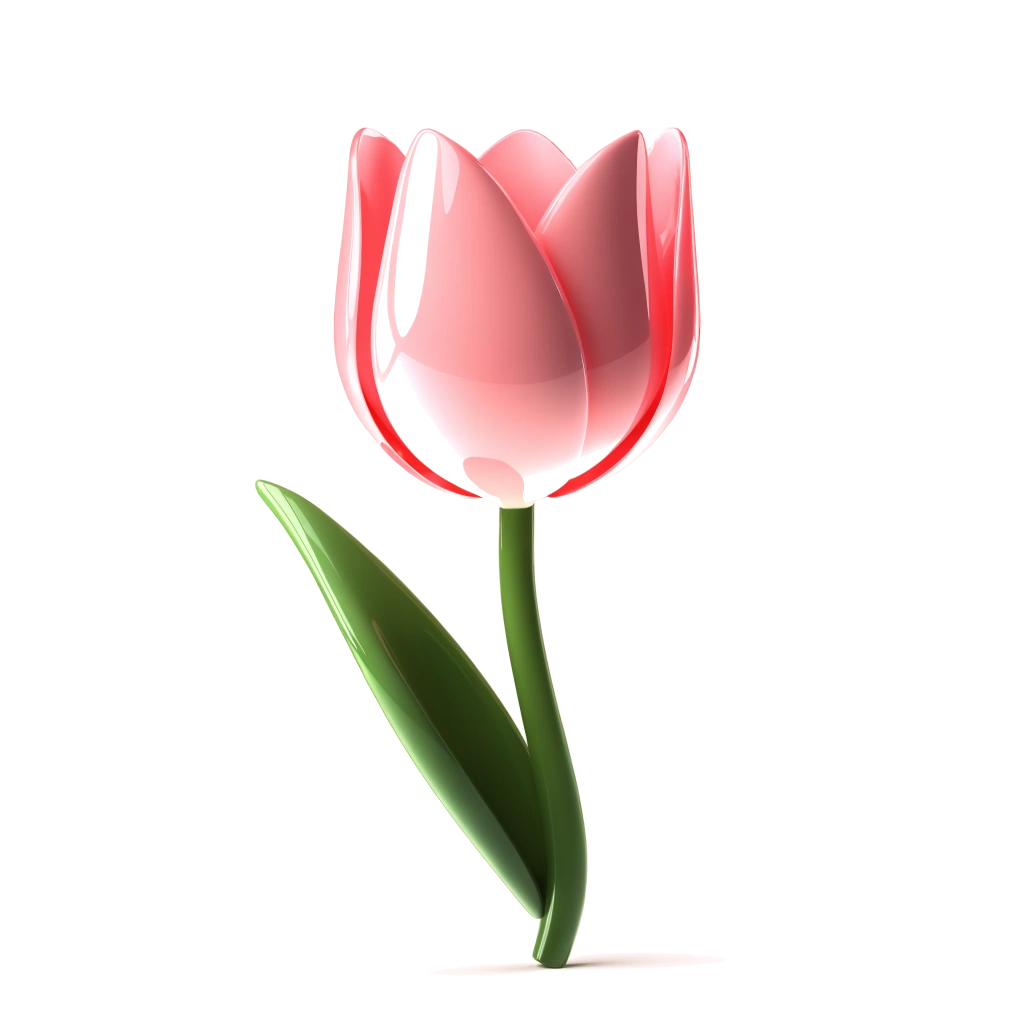
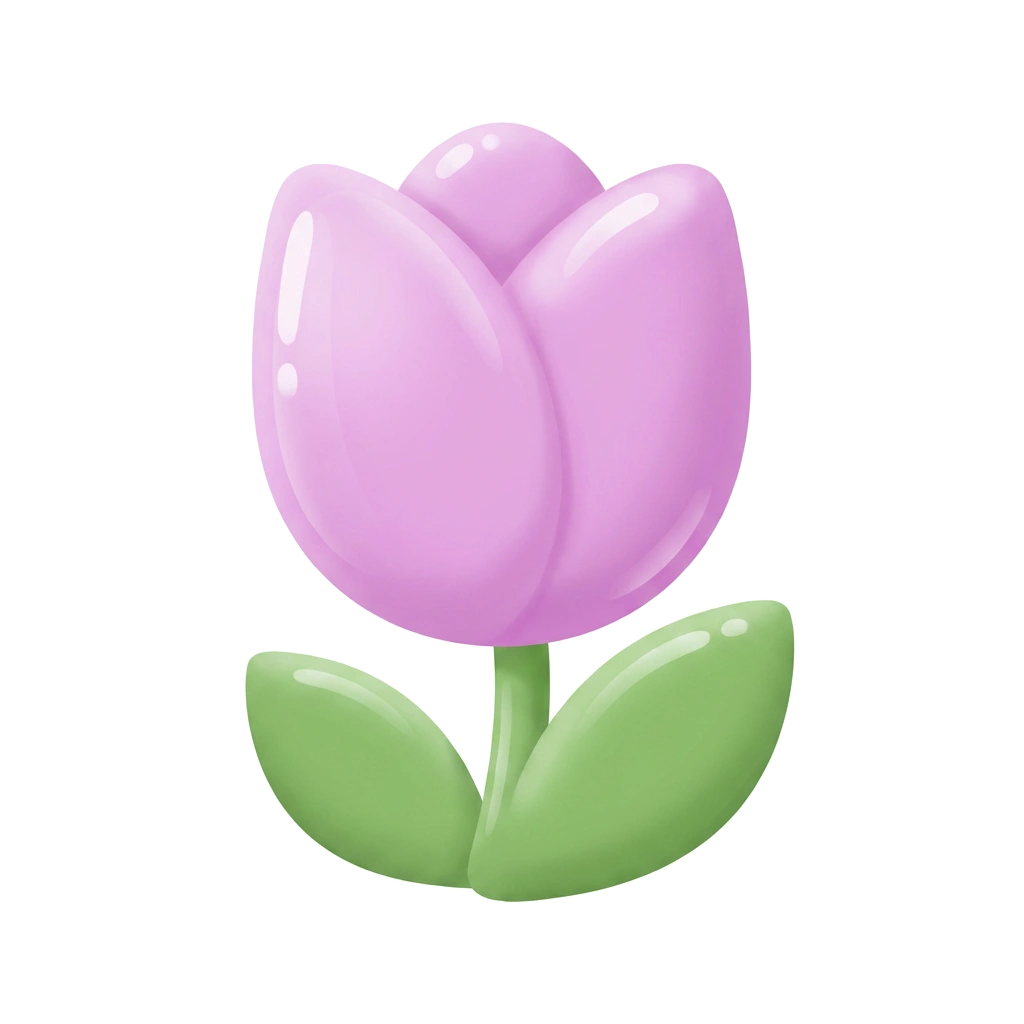
Os ícones da Saúde passam a seguir o coração de referência do dono
O coração é a imagem que ele mandou pelo Drive; chutes, contrações, nutrição
e saúde da mulher foram gerados com essa imagem como referência de estilo,
na mesma família: rosa-doce, brilho suave, formas simples, sem rosto.

Medido: 5.508 testes, tsc e lint limpos; o hub fotografado com as cinco artes
e console limpo.

Claude-Session: https://claude.ai/code/session_01BJM25tJAqQNE1gvk3FSNXP

diff --git a/CLAUDE.md b/CLAUDE.md
@@ -12593,3 +12593,30 @@ acima mais `scripts/bebes/do-drive.mjs`.
 
 **Bancada:** `/preview-cantinho` (rolar a vitrine: nenhum `span.text-4xl`
 deve sobrar — medido: 0).
+
+### A estética virou a do dono: o coração de referência do Drive (set/2026)
+
+Depois de ver os ícones 3D no aparelho, o dono disse que estavam "muito
+tecnológicos, com vários efeitos" — e mandou pelo Drive a imagem que ELE
+queria ("Imagem referência coração saúde"): um coração rosa-doce, brilho
+suave, formas simples, sem rosto, sem textura. Onze variações minhas
+(argila, guache, pelúcia, kawaii, Pixar, toon…) não chegaram lá; a referência
+dele chegou de primeira.
+
+- **O coração da Saúde É a imagem dele**, recortada por `do-drive.mjs` (alfa
+  real, PSNR 49). Os outros quatro (chutes, contrações, nutrição, mulher)
+  foram gerados com **`nano_banana_pro` + `image_references`** (2 cr cada),
+  com o prompt pedindo "EXACTLY the same illustration style as the reference
+  image" e descrevendo o estilo em palavras junto (glossy candy-like, soft
+  white highlights, simple rounded shapes, no outline, no face).
+- ⚠ **Referência de imagem vale mais que dez prompts de estilo.** O `recraft`
+  com prompt sozinho oscilou entre vidro, argila e feltro; com a imagem dele
+  como referência, os quatro saíram na mesma família de primeira. Para as
+  próximas famílias (grades, Cantinho), o caminho é este: pedir a referência
+  ao dono e gerar a partir dela — não descrever de memória o que ele gosta.
+- ⚠ **O arquivo do Drive baixa por link direto**
+  (`drive.google.com/uc?export=download&id=…`), sem passar o base64 pelo
+  contexto: 900 KB de PNG virariam ~300 mil tokens numa leitura.
+  `media_import_url` do Higgsfield aceita a mesma URL.
+
+**Bancada:** `/preview-saude?w=38` (as cinco) · `?w=20&dados=1`.
